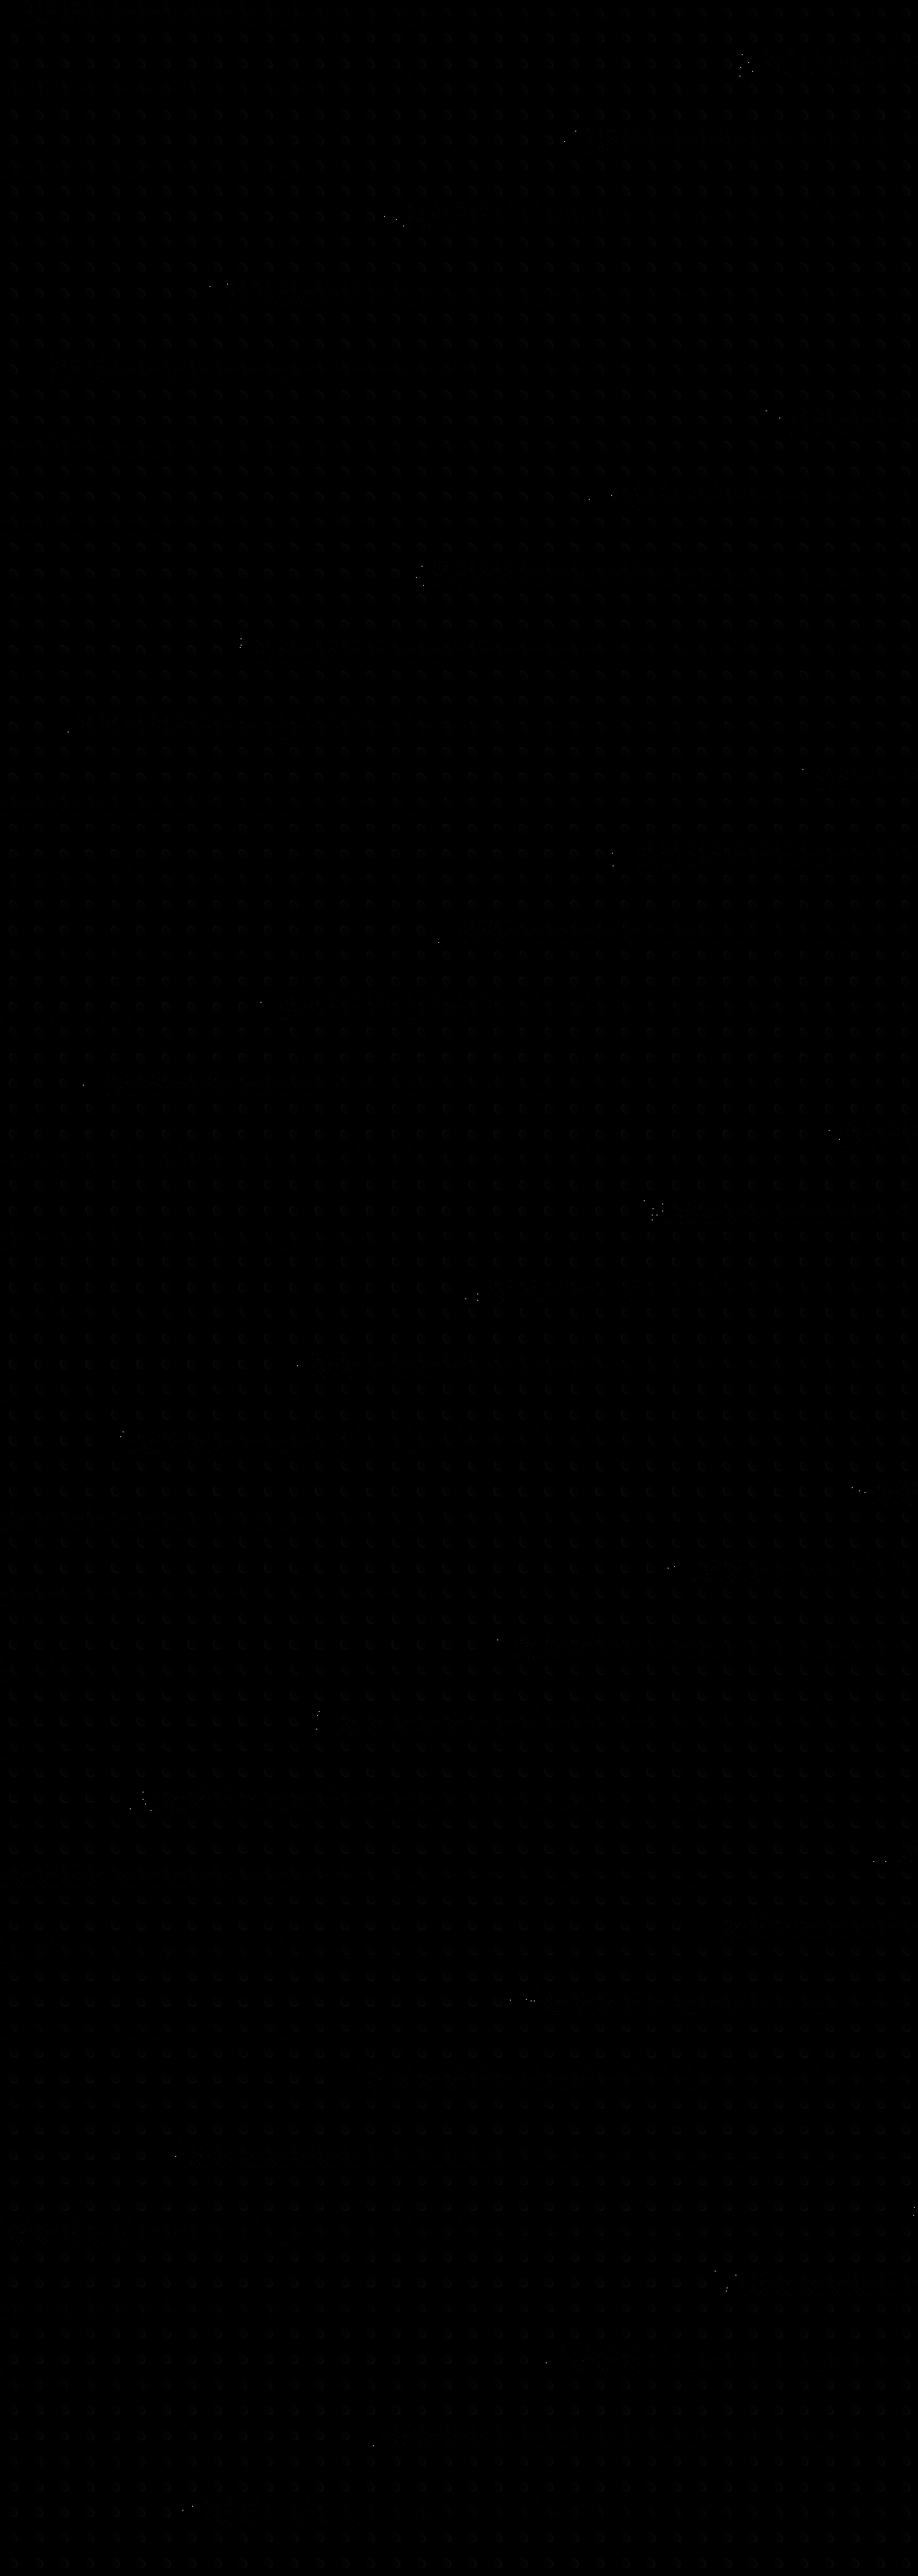
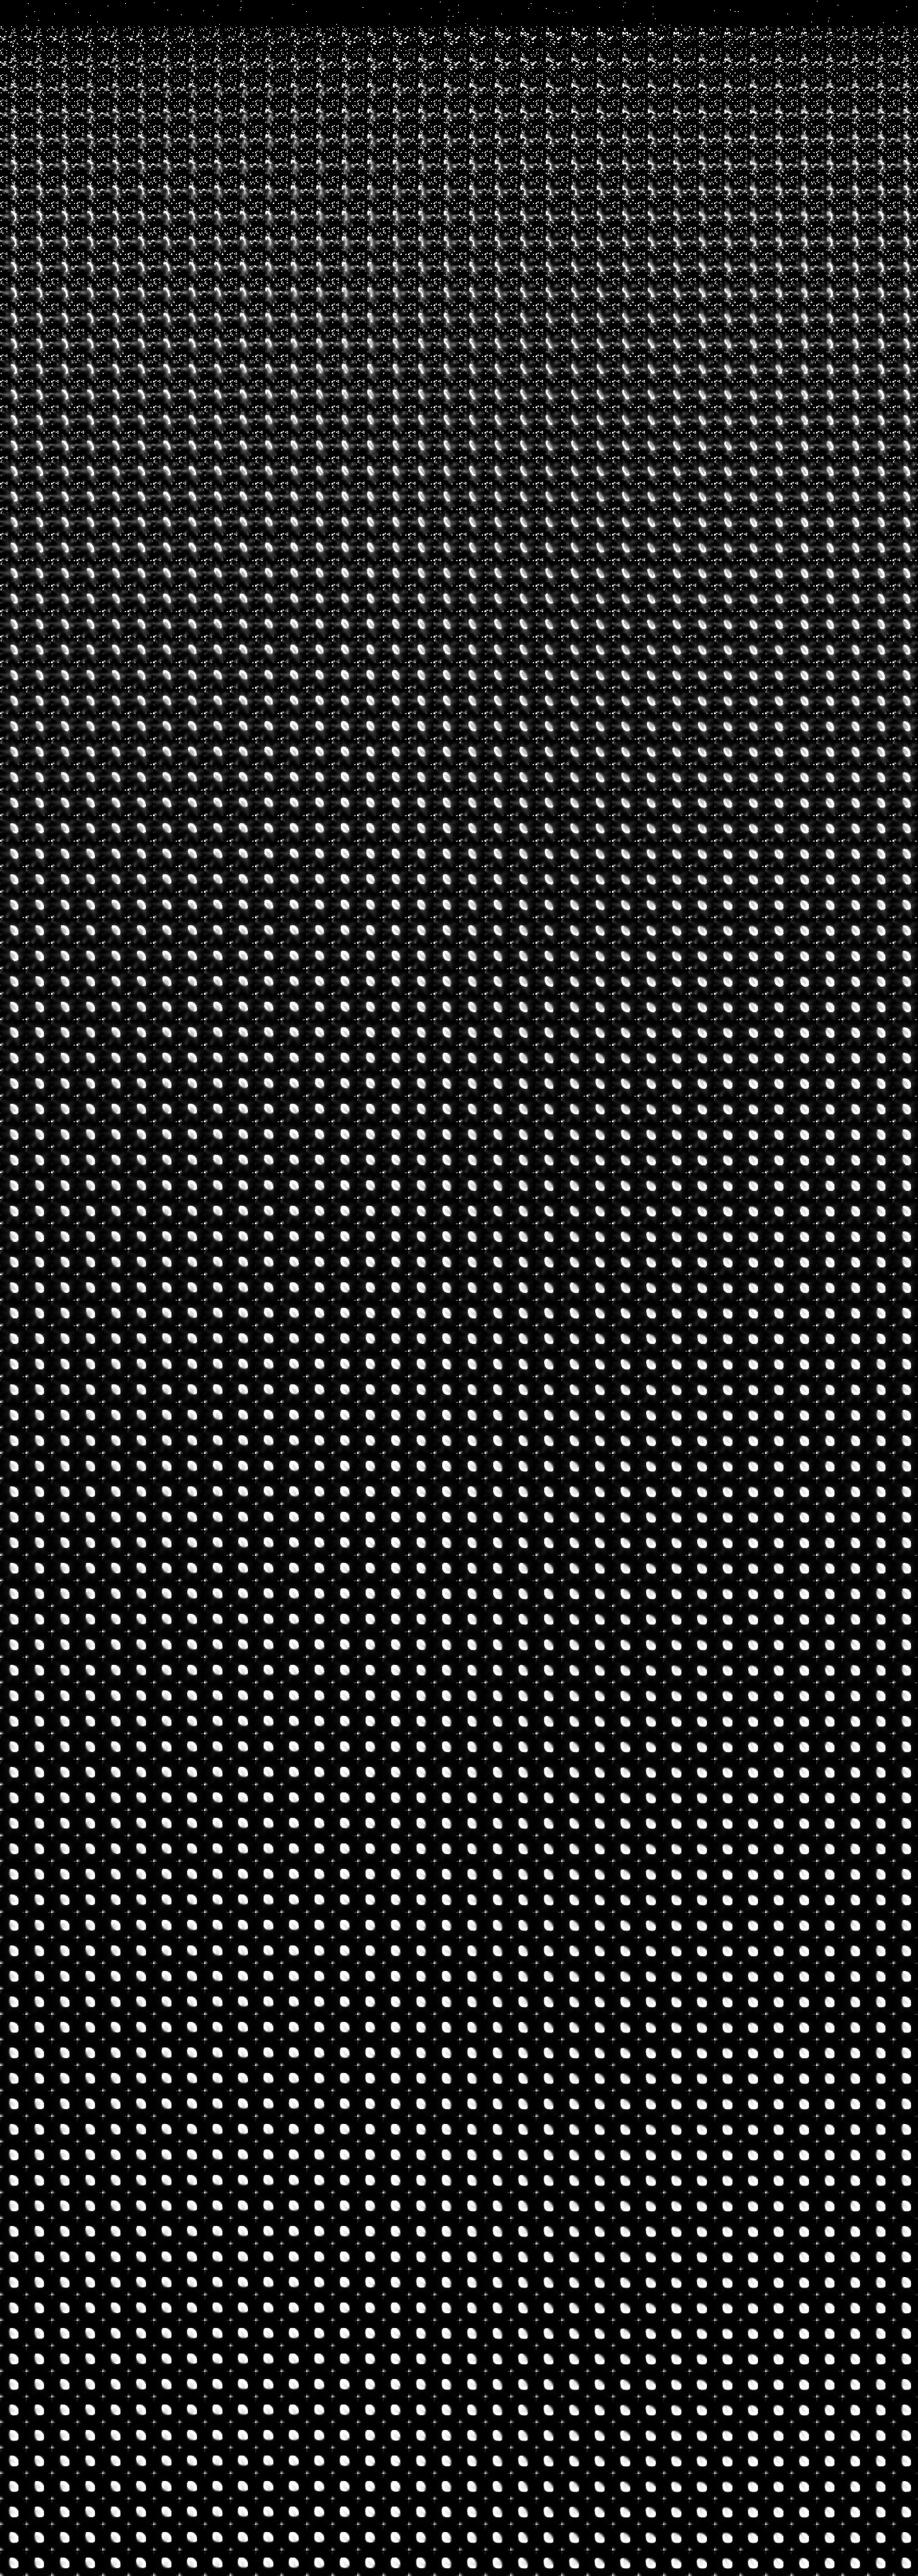
proper scaling of output image

Changed region(s): [[0.0, 0.0, 1.0, 1.0]]

diff --git a/MATLAB/ODEwrapper.m b/MATLAB/ODEwrapper.m
@@ -105,9 +105,9 @@ end
 %%
 data = squeeze(num2cell(reshape(y, [size(y,1),N,N,phi] ), [2 3]));
 for i = 1:numel(data)
-    data{i} = squeeze(data{i});
+    data{i} = 100*squeeze(data{i});
 end
-DD = imtile(data, 'GridSize', size(data));
+DD = imtile(data', 'GridSize', size(data));
 % imshow(DD);
 imwrite(DD, "bigoutput.png");
 
